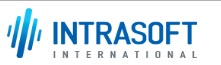
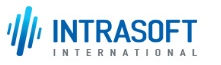
update to latest package for react and react-dom, remove all warnings, add requested colors

diff --git a/src/components/SearchBar/SearchBar.js b/src/components/SearchBar/SearchBar.js
@@ -11,7 +11,6 @@ import { useLocation } from "react-router-dom";
 const SearchBar = () => {
   const [searchResult, setSearchResult] = React.useState("");
   const [articles, setArticlesData] = React.useState([]);
-  const [isLoading, setIsLoading] = React.useState(false);
   const [error, setError] = React.useState(null);
   const [foundArticles, setFoundArticles] = React.useState([]);
   const [selectedArticle, setSelectedArticle] = React.useState(null);
@@ -36,6 +35,7 @@ const SearchBar = () => {
         if (item.description.includes(searchResult.toString().trim())) {
           results.push(item);
         }
+        return results;
       });
     }
     setFoundArticles(results);
@@ -47,13 +47,6 @@ const SearchBar = () => {
       setSearchResult("");
     }
   }, [location]);
-
-
-  React.useEffect(() => {
-    if (foundArticles.length > 0) {
-      setIsLoading(false);
-    } else setIsLoading(true);
-  }, [foundArticles]);
 
   const onSearch = (e) => {
     if (!articles.length) {
@@ -82,7 +75,7 @@ const SearchBar = () => {
         <Form.Group as={Col} className="mb-0">
           <InputGroup>
             <InputGroup.Prepend>
-              <InputGroup.Text>
+              <InputGroup.Text style={{background: 'none', border: 'none'}}>
                 <SearchIcon />
               </InputGroup.Text>
             </InputGroup.Prepend>
@@ -104,7 +97,6 @@ const SearchBar = () => {
               <Card key={idx}>
                 <Paper
                   className="search-list-item row ml-0"
-                  key={idx}
                   onClick={() => navigateToArticle(article)}
                   role="button"
                   style={{

diff --git a/src/components/Articles/Articles.js b/src/components/Articles/Articles.js
@@ -4,7 +4,6 @@ import Stats from "../../common/components/Stats";
 import { Spinner } from "react-bootstrap";
 import { useHistory } from "react-router-dom";
 import Tags from "../../common/components/Tags";
-import Button from "@material-ui/core/Button";
 
 const Articles = ({ articles }) => {
   const articlesHistory = useHistory();
@@ -50,13 +49,13 @@ const Articles = ({ articles }) => {
                 </div>
                 <Card.Text>{article.description}</Card.Text>
                 <div className="article-details-nav-btn">
-                  <Button
-                    className="mt-2 mb-3 defaultBtn p-1 mr-2"
+                  <span
+                    className="mt-2 mb-3 p-1 mr-2"
                     variant="contained"
                     onClick={() => navigateToArticle(article)}
                   >
                     READ MORE {">"}
-                  </Button>
+                  </span>
                 </div>
               </Card.Body>
             </Card>

diff --git a/src/assets/css/sass/global.scss b/src/assets/css/sass/global.scss
@@ -12,7 +12,7 @@ body {
 
 .nav-link.active {
   font-weight: bold;
-  border-top: 1px solid #ffffff;
+  border-top: none;
 }
 
 .hidden-scroll {
@@ -65,7 +65,7 @@ img {
 }
 
 .headerColour {
-  background-color: lightskyblue;
+  background-color: #fff;
 }
 
 .nav-bar-menu {
@@ -144,13 +144,13 @@ img {
 }
 
 .defaultBtn {
-  background-color: #3fa8ff !important;
+  background-color: #256eff !important;
   color: #fff !important;
   text-transform: none !important;
 }
 
 .article-details-nav-btn {
-  color: #3fa8ff !important;
+  color: #256eff !important;
   text-align: right;
   cursor: pointer;
   font-weight: bold;
@@ -173,7 +173,7 @@ img {
 .footer {
   width: 100%;
   top: auto;
-  background: #3f3fff;
+  background: #256eff;
   bottom: 0;
   position: absolute;
 }
@@ -263,7 +263,7 @@ img {
 }
 
 .banner-title:hover {
-  background-color: #3fa8ff;
+  background-color: #256eff;
   opacity: 1;
 }
 

diff --git a/src/components/Home/Home.js b/src/components/Home/Home.js
@@ -25,7 +25,7 @@ const Home = () => {
   const tagLocation = location.pathname.includes("tagged");
 
   useEffect(() => {
-    const fetchAllArticles = async () => {
+    (async () => {
       setError(null);
       setIsLoading(true);
 
@@ -39,9 +39,9 @@ const Home = () => {
         setError(error);
         setIsLoading(false);
       }
-    };
-    fetchAllArticles();
-  }, [location.pathname]);
+    })()
+    // eslint-disable-next-line react-hooks/exhaustive-deps
+  }, [location.pathname])
 
   const navigateToArticle = (article) => {
     articlesHistory.push(`/article/${article.id}`);
@@ -90,6 +90,7 @@ const Home = () => {
         }
       }
       if (foundArticle && !tagLocation) filteredTaggedArticles.push(article);
+      return filteredTaggedArticles;
     });
     return filteredTaggedArticles;
   };

diff --git a/src/components/Gallery/Gallery.js b/src/components/Gallery/Gallery.js
@@ -19,6 +19,7 @@ class Gallery extends Component {
           this.setState({
             picList: [...this.state.picList, item.social_image],
           });
+          return this.state.picList;
         });
       });
   }
